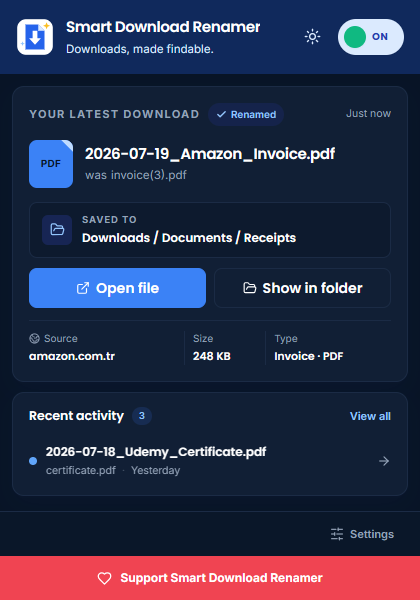
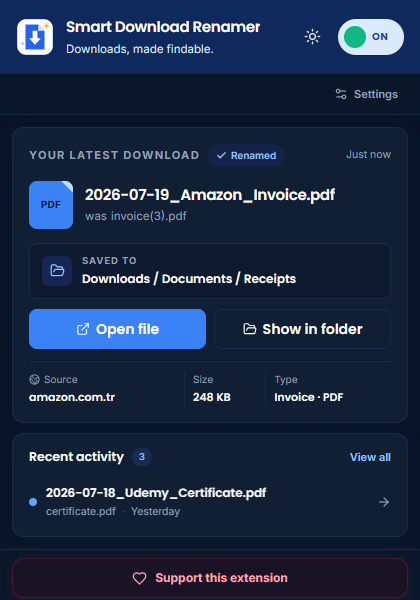
Move settings to top and soften support footer

diff --git a/src/popup/components/PopupFooter.tsx b/src/popup/components/PopupFooter.tsx
@@ -1,29 +1,17 @@
-import { Heart, SlidersHorizontal } from "lucide-react";
+import { Heart } from "lucide-react";
 import { SUPPORT_URL } from "../../shared/constants/links";
 
-type PopupFooterProps = {
-  onOpenSettings: () => void;
-};
-
-export function PopupFooter({ onOpenSettings }: PopupFooterProps) {
+export function PopupFooter() {
   return (
-    <footer className="border-t border-[#dbe3f0] bg-white dark:border-lift dark:bg-[#0a1729]">
-      <div className="flex items-center justify-end px-4 py-2">
-        <button
-          className="flex cursor-pointer items-center gap-1.5 rounded-lg px-2.5 py-1.5 text-[11px] font-semibold text-slate-500 transition-colors hover:bg-blue-50 hover:text-blue-700 dark:text-slate-400 dark:hover:bg-lift dark:hover:text-blue-300"
-          onClick={onOpenSettings}
-        >
-          <SlidersHorizontal size={14} aria-hidden="true" /> Settings
-        </button>
-      </div>
+    <footer className="border-t border-[#dbe3f0] bg-white px-3 py-2 dark:border-lift dark:bg-[#0a1729]">
       <a
-        className="flex min-h-11 cursor-pointer items-center justify-center gap-2 bg-[#ff424d] px-4 py-3 text-[12px] font-bold text-white transition-colors hover:bg-[#e93543] active:bg-[#ce2f3c] dark:bg-[#f04452] dark:hover:bg-[#ff5965]"
+        className="flex min-h-10 cursor-pointer items-center justify-center gap-2 rounded-xl border border-rose-200 bg-rose-50 px-4 text-[12px] font-bold text-rose-600 shadow-[0_3px_10px_rgba(244,63,94,0.08)] transition-colors hover:border-rose-300 hover:bg-rose-100 hover:text-rose-700 focus-visible:outline-none focus-visible:ring-2 focus-visible:ring-rose-400 dark:border-rose-900/50 dark:bg-rose-950/25 dark:text-rose-300 dark:hover:border-rose-800 dark:hover:bg-rose-950/45 dark:hover:text-rose-200"
         href={SUPPORT_URL}
         target="_blank"
         rel="noopener noreferrer"
         aria-label="Support Smart Download Renamer on Patreon"
       >
-        <Heart size={15} aria-hidden="true" /> Support Smart Download Renamer
+        <Heart size={15} aria-hidden="true" /> Support this extension
       </a>
     </footer>
   );

diff --git a/scripts/verify-extension-ui.js b/scripts/verify-extension-ui.js
@@ -78,10 +78,20 @@ try {
     stylesheets: [...document.styleSheets].map((sheet) => sheet.href),
   }));
   const popupNavigation = {
-    settingsButtons: await popup.getByRole("button", { name: "Settings" }).count(),
+    settingsButtons: await popup.getByRole("button", { name: "Open settings" }).count(),
     historyButtons: await popup.getByRole("button", { name: "History" }).count(),
-    supportWidth: await popup.getByRole("link", { name: "Support Smart Download Renamer on Patreon" })
-      .evaluate((element) => element.getBoundingClientRect().width),
+    support: await popup.getByRole("link", { name: "Support Smart Download Renamer on Patreon" })
+      .evaluate((element) => {
+        const bounds = element.getBoundingClientRect();
+        const style = getComputedStyle(element);
+        const footerStyle = getComputedStyle(element.closest("footer"));
+        return {
+          width: bounds.width,
+          borderRadius: Number.parseFloat(style.borderRadius),
+          background: style.backgroundColor,
+          footerBackground: footerStyle.backgroundColor,
+        };
+      }),
   };
 
   await popup.screenshot({
@@ -127,9 +137,12 @@ try {
   if (
     popupNavigation.settingsButtons !== 1
     || popupNavigation.historyButtons !== 0
-    || popupNavigation.supportWidth !== popupMetrics.width
+    || popupNavigation.support.width >= popupMetrics.width
+    || popupNavigation.support.width < popupMetrics.width - 32
+    || popupNavigation.support.borderRadius < 12
+    || popupNavigation.support.background === popupNavigation.support.footerBackground
   ) {
-    throw new Error("Popup footer does not have one Settings action and a full-width Support action.");
+    throw new Error("Popup does not have a top Settings action and a calm rounded Support footer.");
   }
   if (Object.values(supportByTab).some((visible) => !visible)) {
     throw new Error("Support footer is not visible on every options page.");

diff --git a/src/popup/PopupApp.tsx b/src/popup/PopupApp.tsx
@@ -5,6 +5,7 @@ import { LatestDownloadCard } from "./components/LatestDownloadCard";
 import { NamingPreview } from "./components/NamingPreview";
 import { PopupFooter } from "./components/PopupFooter";
 import { PopupHeader } from "./components/PopupHeader";
+import { PopupUtilityBar } from "./components/PopupUtilityBar";
 import { RecentRenames } from "./components/RecentRenames";
 
 export function PopupApp() {
@@ -54,6 +55,7 @@ export function PopupApp() {
         onEnabledChange={(enabled) => updateSettings({ ...settings, enabled })}
         onThemeToggle={() => setTheme(theme === "dark" ? "light" : "dark")}
       />
+      <PopupUtilityBar onOpenSettings={openSettings} />
 
       <main className="flex-1 space-y-2.5 px-3 py-3">
         {latest ? (
@@ -64,7 +66,7 @@ export function PopupApp() {
         <RecentRenames records={history.slice(1)} onViewAll={openHistory} />
       </main>
 
-      <PopupFooter onOpenSettings={openSettings} />
+      <PopupFooter />
     </div>
   );
 }

diff --git a/src/popup/components/PopupUtilityBar.tsx b/src/popup/components/PopupUtilityBar.tsx
@@ -1,0 +1,22 @@
+import { Settings2 } from "lucide-react";
+
+type PopupUtilityBarProps = {
+  onOpenSettings: () => void;
+};
+
+export function PopupUtilityBar({ onOpenSettings }: PopupUtilityBarProps) {
+  return (
+    <nav
+      className="flex items-center justify-end border-b border-[#dbe3f0] bg-white/80 px-3 py-1.5 dark:border-lift dark:bg-[#0a1729]/85"
+      aria-label="Popup actions"
+    >
+      <button
+        className="flex min-h-7 cursor-pointer items-center gap-1.5 rounded-lg px-2.5 text-[11px] font-semibold text-slate-500 transition-colors hover:bg-blue-50 hover:text-blue-700 focus-visible:outline-none focus-visible:ring-2 focus-visible:ring-blue-500 dark:text-slate-400 dark:hover:bg-lift dark:hover:text-blue-300"
+        onClick={onOpenSettings}
+        aria-label="Open settings"
+      >
+        <Settings2 size={14} aria-hidden="true" /> Settings
+      </button>
+    </nav>
+  );
+}
